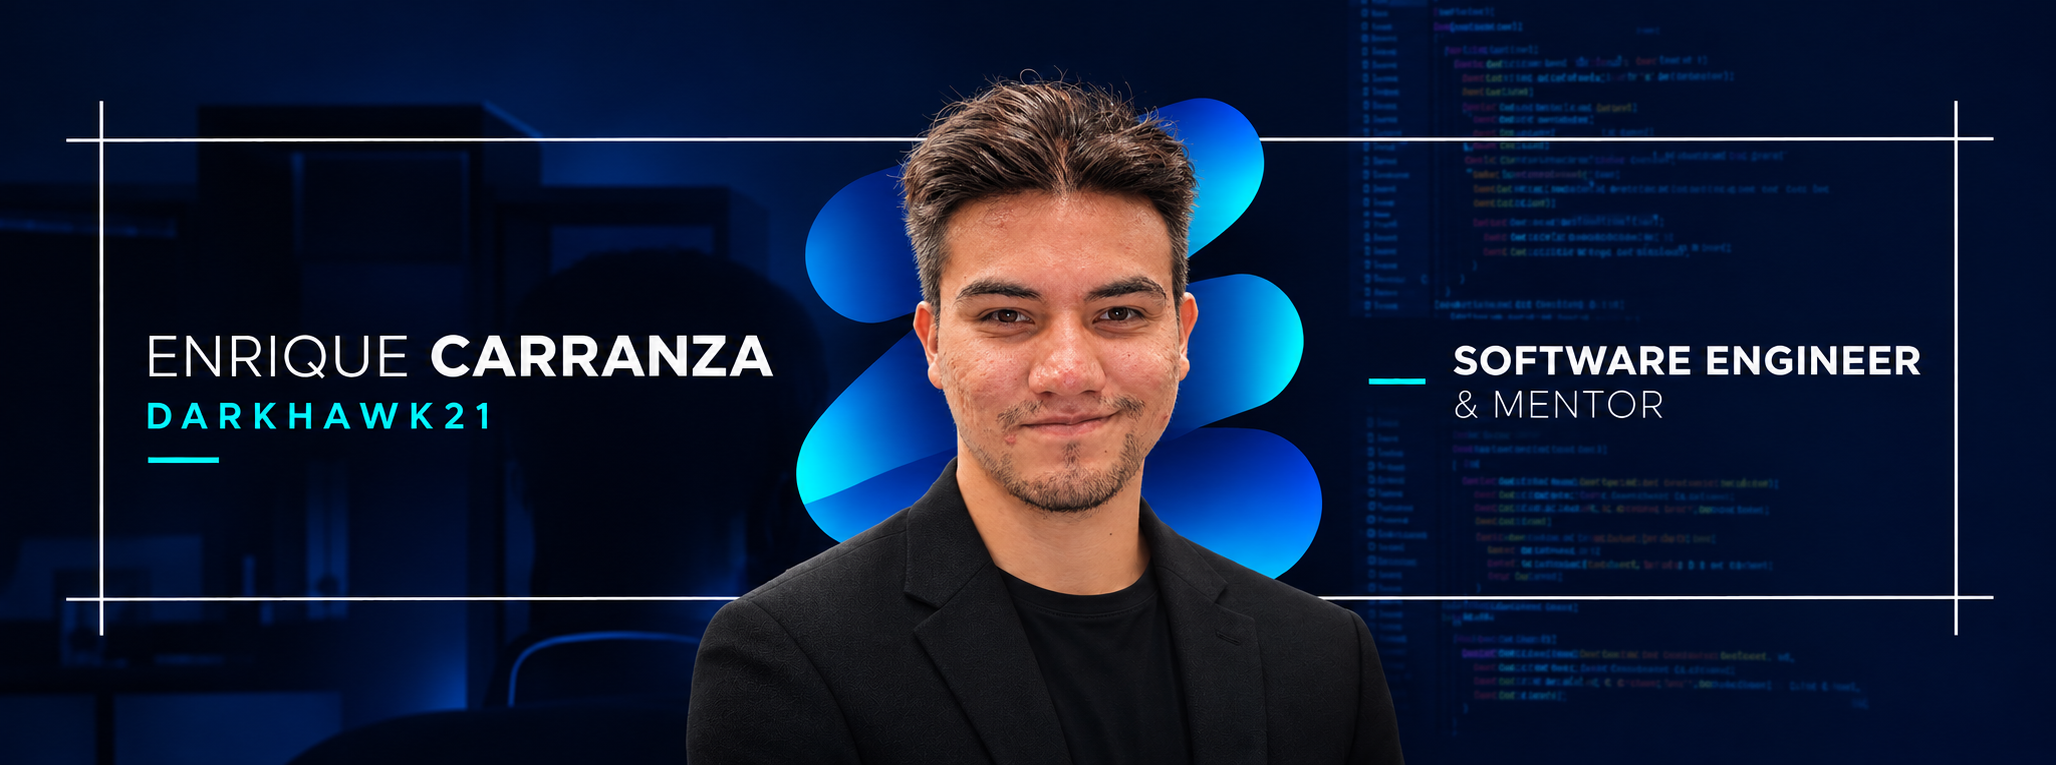
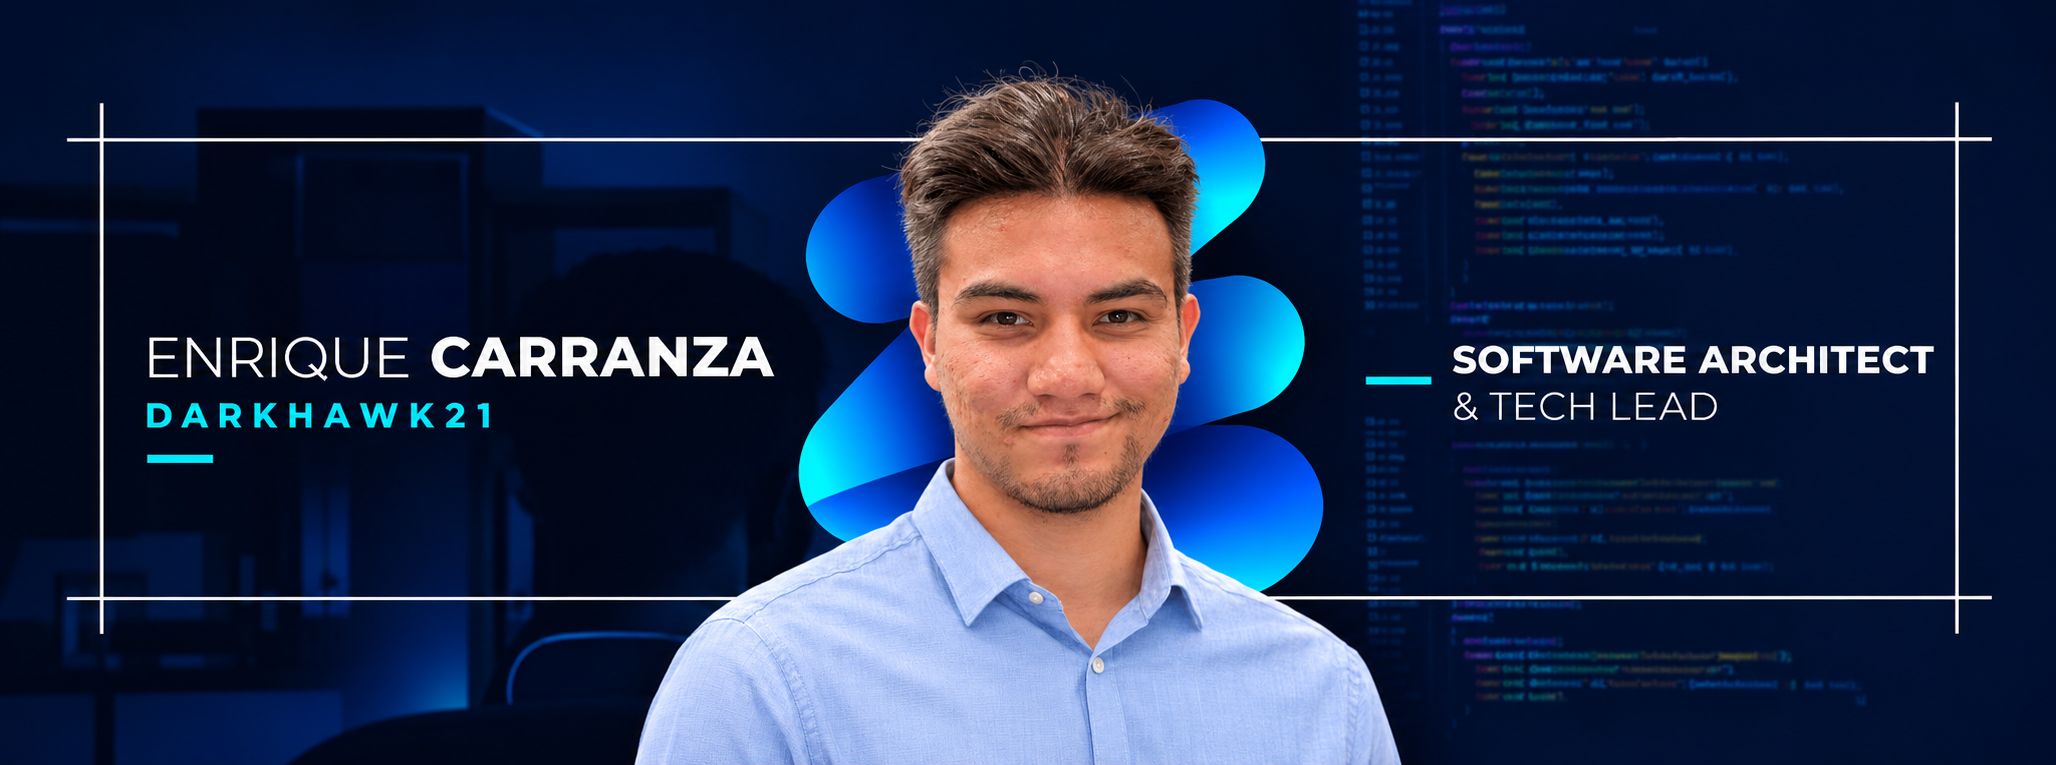
Profile update

diff --git a/README.md b/README.md
@@ -1,62 +1,85 @@
-<h1 align="center">
-    Hello!
-    <img src="https://media.giphy.com/media/hvRJCLFzcasrR4ia7z/giphy.gif" width="30px"/>
-</h1>
-  
-![Enrique Carranza](./Enrique_Carranza_Github.png)
-
-<div id="header" align="center">
-    <div id="badges">
-        <a href="https://www.youtube.com/channel/UCdJGbm8DEnTL37F9m6R6ChQ/" target="_blank">
-            <img alt="YouTube" src="https://img.shields.io/badge/youtube-blue?style=for-the-badge&logo=youtube&logoColor=white" />
-        </a>
-        <a href="https://www.linkedin.com/in/enriquecb21/">
-            <img src="https://img.shields.io/badge/LinkedIn-blue?style=for-the-badge&logo=linkedin&logoColor=white" alt="LinkedIn Badge" />
-        </a>
-        <a href="https://www.instagram.com/darkhawk.dev/" target="_blank">
-            <img alt="Instagram" src="https://img.shields.io/badge/Instagram-blue?style=for-the-badge&logo=instagram&logoColor=white" />
-        </a>
-        <a href="https://darkhawk21.com/" target="_blank">
-            <img alt="Website" src="https://img.shields.io/badge/website-blue?style=for-the-badge&logo=world&logoColor=white" />
-        </a>
-    </div>
-</div>
-
----
-### :man_technologist: About me:
-
-```js
-import SoftwareEngineer from 'enriqueCarranza';
-
-class Bio extends SoftwareEngineer {
-    name: 'Enrique Carranza',
-    pronouns: "he" | "him",
-    passions: [
-        'Software development',
-        'Software Architecture',
-        'Fullstack developer',
-        'Programming mentor'
-    ],
-    title: 'Software Engineer',
-    grade: 'Computer engineer',
-    company: 'KeyPro | Remote',
-    location: 'Mexico'
-}
-
-class Skills extends SoftwareEngineer {
-    languages: [JavaScript, TypeScript, HTML5, CSS3, PHP, PYTHON, JAVA, NodeJS],
-    databases: ['MySQL', 'MongoDB', 'Firebase', 'SQLServer'],
-    frontendFrameworks: ['VueJS', 'ReactJS', 'AngularJS'],
-    backendFrameworks: ['Laravel', 'ExpressJS', 'DJango'],
-    others: ['WordPress', 'ElectronJS', 'SASS', 'TailwindCSS']
-}
-```
----
-
-### :fire: My Stats :
-<div align="center">  
-  <img src="https://github-readme-streak-stats.herokuapp.com/?user=darkhawk21" width="600"/>
-</div>
 <div align="center">
-  <img src="https://github-readme-stats.vercel.app/api/top-langs/?username=darkhawk21&layout=compact" width="600"/>
+
+![Enrique Carranza | DarkHawk21](./Enrique_Carranza_Github.png)
+
+# Software Architect & Tech Lead
+
+Conversational AI · Digital Transformation · Senior Full Stack Engineer
+
+[![LinkedIn](https://img.shields.io/badge/LinkedIn-0A66C2?style=for-the-badge)](https://www.linkedin.com/in/enriquecb21/)
+[![Sitio Web](https://img.shields.io/badge/Sitio_Web-112D4E?style=for-the-badge&logo=googlechrome&logoColor=white)](https://zentusx.com/)
+
+</div>
+
+---
+
+## Sobre mí
+
+Soy **Enrique Carranza**, Arquitecto de Software y Líder Técnico, con **más de 7 años de experiencia** en ingeniería de software, desarrollo Full Stack y soluciones tecnológicas.
+
+Me enfoco en diseñar arquitecturas escalables, liderar iniciativas técnicas y desarrollar soluciones que respondan a necesidades reales del negocio.
+
+Combino experiencia práctica en desarrollo de software con una visión arquitectónica, liderazgo técnico y especialización en automatización inteligente.
+
+---
+
+## Áreas de especialización
+
+| Área | Enfoque |
+|:---|:---|
+| **Arquitectura de Software** | Diseño de Sistemas, Modularidad, Escalabilidad, Mantenibilidad |
+| **Liderazgo Técnico** | Estrategia Técnica, Code Reviews, Mentoría, Buenas Prácticas |
+| **Ingeniería Backend** | APIs REST, Lógica de Negocio, Integraciones |
+| **Ingeniería Frontend** | Arquitectura de Componentes, Aplicaciones Web, Experiencia de Usuario |
+| **IA Conversacional** | Sistemas Conversacionales, Automatización Inteligente, Diseño de Flujos |
+| **Transformación Digital** | Automatización de Procesos, Integración de Sistemas, Eficiencia Operativa |
+
+---
+
+## Stack tecnológico
+
+<div align="center">
+
+### Lenguajes de programación
+
+![Lenguajes](https://skillicons.dev/icons?i=ts,js,python,php,java,html,css)
+
+### Desarrollo Frontend
+
+![Frontend](https://skillicons.dev/icons?i=react,vue,angular,tailwind,sass)
+
+### Desarrollo Backend
+
+![Backend](https://skillicons.dev/icons?i=nodejs,express,laravel,django)
+
+### Bases de datos
+
+![Bases de datos](https://skillicons.dev/icons?i=mysql,mongodb,firebase)
+
+### Cloud, DevOps y herramientas
+
+![Herramientas](https://skillicons.dev/icons?i=aws,docker,git,github,vscode)
+
+</div>
+
+---
+
+### Principios que guían mi trabajo
+
+- **Simplicidad antes que complejidad innecesaria.**
+- **Mantenibilidad antes que soluciones temporales.**
+- **Escalabilidad basada en necesidades reales.**
+- **Seguridad y confiabilidad desde el diseño.**
+- **Decisiones técnicas alineadas con los objetivos del negocio.**
+- **Mejora continua mediante colaboración y transferencia de conocimiento.**
+
+---
+
+
+<div align="center">
+
+### Actividad en GitHub
+
+![Racha de contribuciones](https://streak-stats.demolab.com?user=darkhawk21&theme=github-dark-blue&hide_border=true)
+
 </div>
